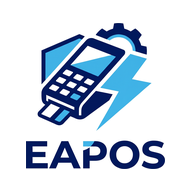
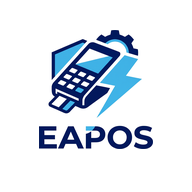
Fix WebAPK Android: rutas absolutas consistentes en manifest.json, bypass de manifest/iconos en sw.js y margen seguro 62% en iconos circulares

Changed region(s): [[0.125, 0.0938, 0.875, 0.9062]]

diff --git a/sw.js b/sw.js
@@ -1,10 +1,11 @@
 // =========================================================================
-// EAPOS PWA — SERVICE WORKER NETWORK-FIRST BLINDADO PARA CLOUD OTA (v4.9.2)
+// EAPOS PWA — SERVICE WORKER NETWORK-FIRST BLINDADO PARA WEBAPK Y CLOUD OTA
 // Design by EA Perez Corp.
 // =========================================================================
-const EAPOS_PWA_CACHE = 'eapos-pwa-v4.9.2';
+const EAPOS_PWA_CACHE = 'eapos-pwa-v4.9.3';
 
-self.addEventListener('install', (event) => {
+// Sin cache.addAll en install para evitar bloqueos o fallos en el WebAPK Minting Server
+self.addEventListener('install', () => {
     self.skipWaiting();
 });
 
@@ -26,10 +27,20 @@ function esRecursoExcluidoRedDirecta(request) {
     }
     if (urlObj.protocol !== 'http:' && urlObj.protocol !== 'https:') return true;
     const hrefLower = urlObj.href.toLowerCase();
+    // Bypass obligatorio para APIs en tiempo real (Supabase/OTA, ImgBB, DolarAPI)
     if (
         hrefLower.includes('supabase.co') ||
         hrefLower.includes('imgbb.com') ||
         hrefLower.includes('dolarapi.com')
+    ) {
+        return true;
+    }
+    // Bypass obligatorio para manifest.json, sw.js e íconos PNG (evita interferencias con WebAPK)
+    const pathLower = urlObj.pathname.toLowerCase();
+    if (
+        pathLower.endsWith('/manifest.json') ||
+        pathLower.endsWith('/sw.js') ||
+        /\.(png|jpg|jpeg|webp|svg|ico)$/i.test(pathLower)
     ) {
         return true;
     }
@@ -42,7 +53,7 @@ function esArchivoAppCacheable(request) {
         if (urlObj.origin !== self.location.origin) return false;
         const path = urlObj.pathname.toLowerCase();
         if (request.mode === 'navigate' || path === '/' || path.endsWith('/')) return true;
-        return /\.(html|js|css|json|png|jpg|jpeg|webp|svg|ico)$/i.test(path);
+        return /\.(html|js|css)$/i.test(path);
     } catch (e) {
         return false;
     }
@@ -50,11 +61,10 @@ function esArchivoAppCacheable(request) {
 
 self.addEventListener('fetch', (event) => {
     const req = event.request;
-    // EXCLUSIÓN OBLIGATORIA: Bypass directo a la red sin interceptar ni cachear
     if (esRecursoExcluidoRedDirecta(req)) return;
     if (!esArchivoAppCacheable(req)) return;
 
-    // ESTRATEGIA NETWORK-FIRST: siempre intenta traer la versión fresca de internet
+    // ESTRATEGIA NETWORK-FIRST: siempre trae la versión fresca de internet; fallback solo offline
     event.respondWith(
         fetch(req)
             .then((networkRes) => {
@@ -64,6 +74,12 @@ self.addEventListener('fetch', (event) => {
                 }
                 return networkRes;
             })
-            .catch(() => caches.match(req).then((cached) => cached || caches.match('./index.html')))
+            .catch(() =>
+                caches.match(req).then((cached) => {
+                    if (cached) return cached;
+                    if (req.mode === 'navigate') return caches.match('/index.html');
+                    return new Response('', { status: 503, statusText: 'Offline' });
+                })
+            )
     );
 });
